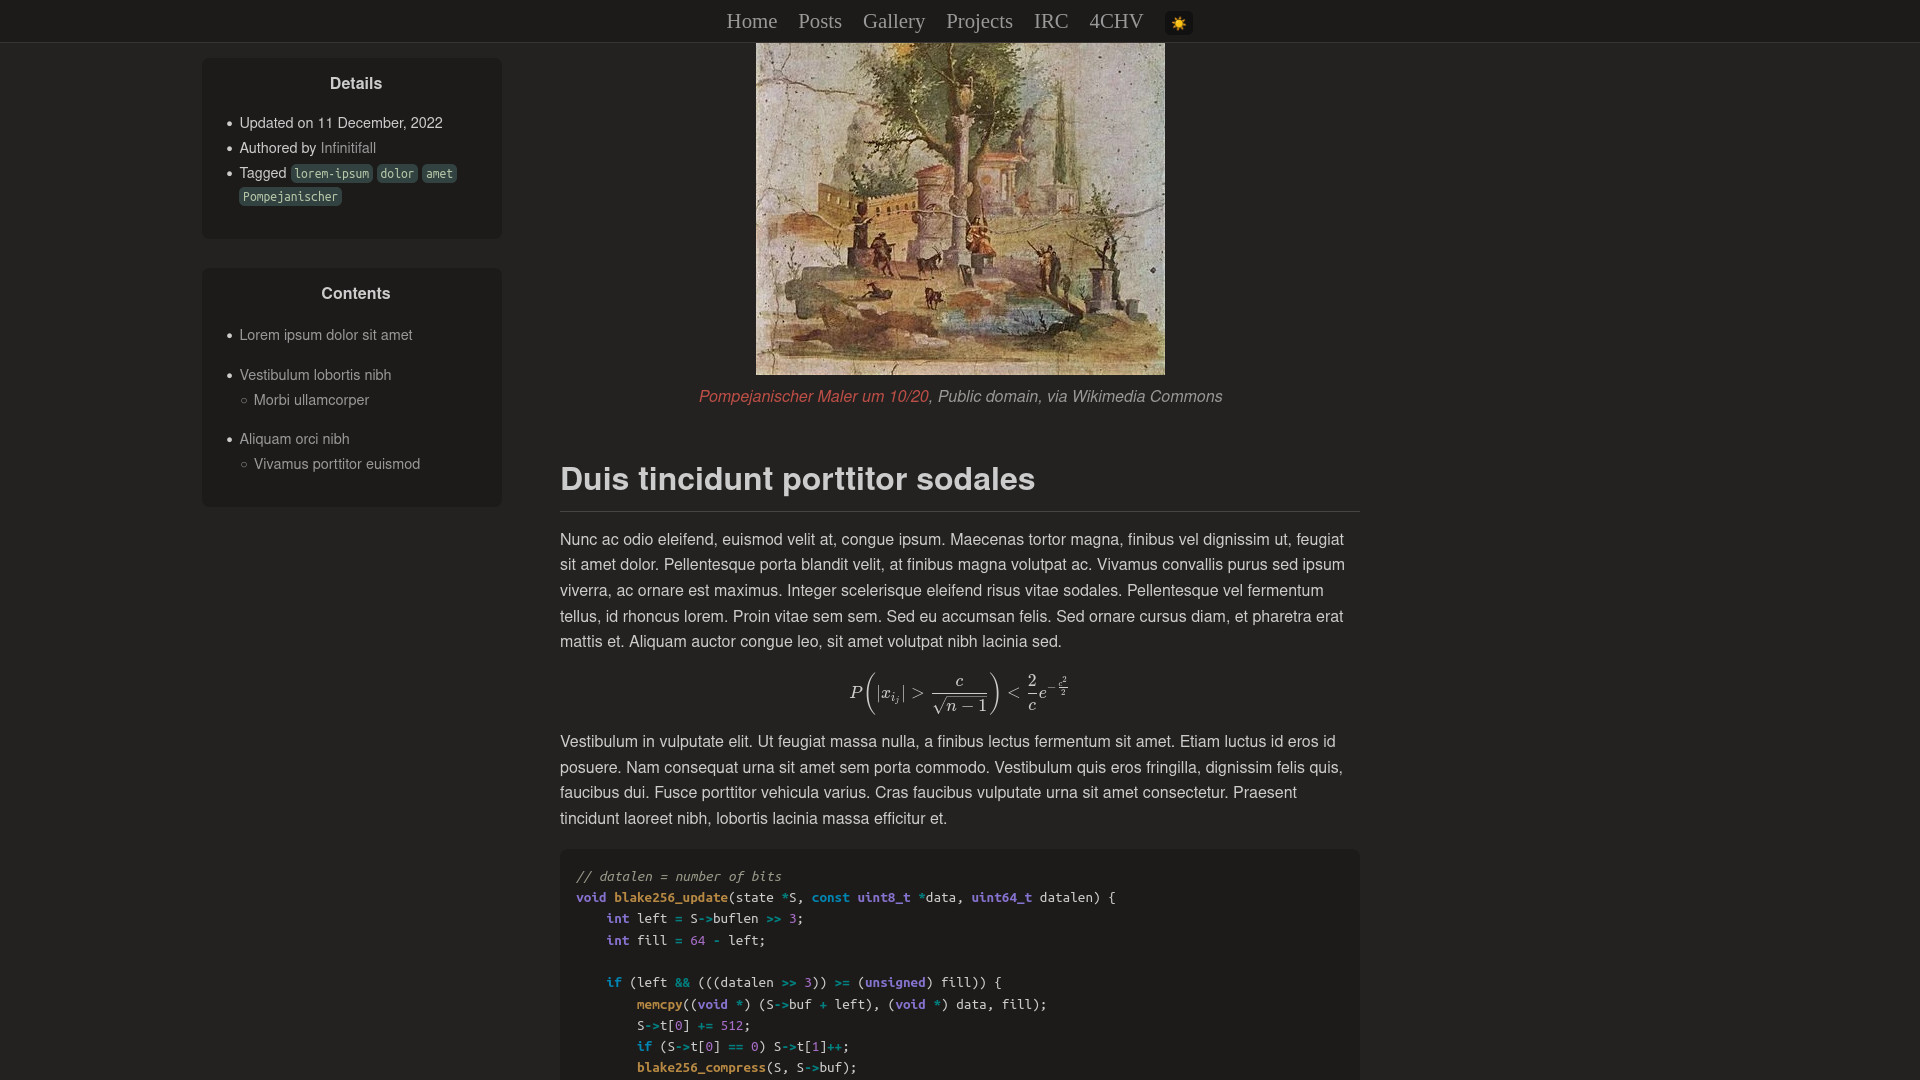
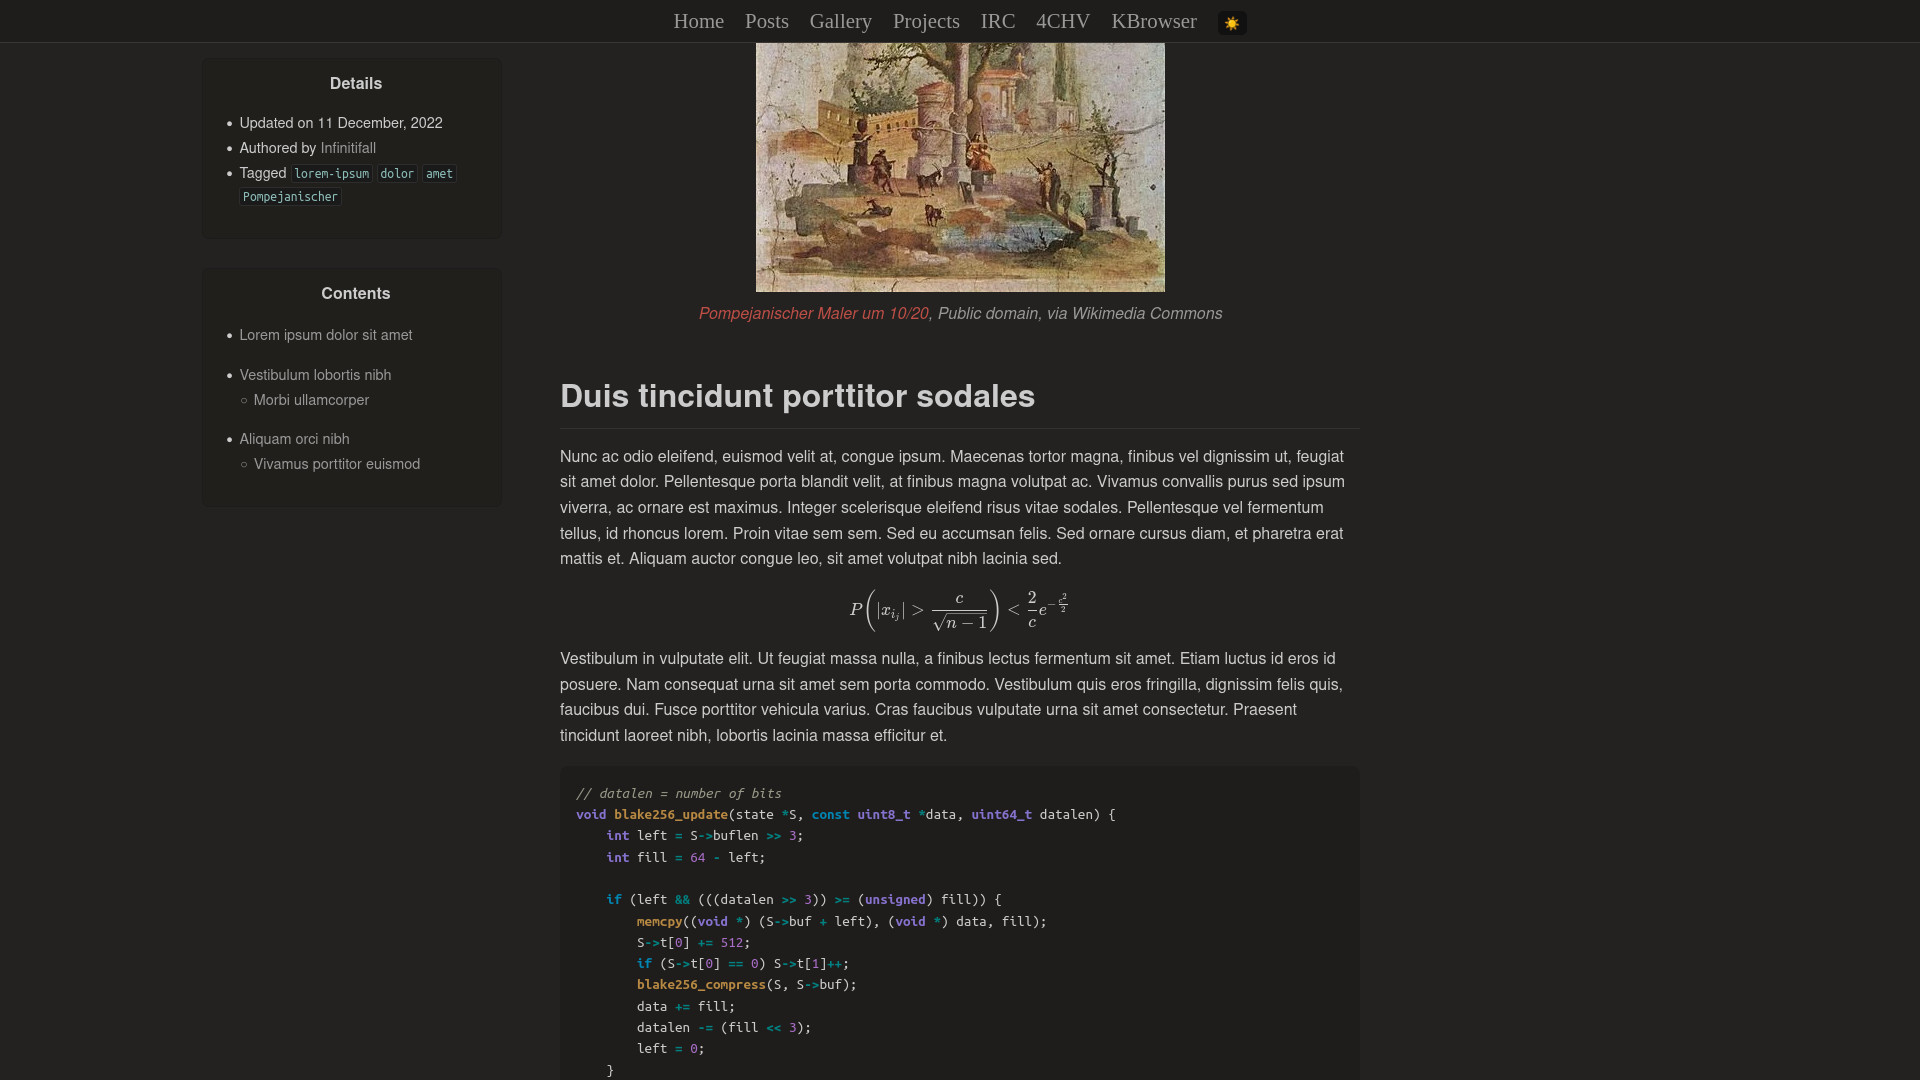
refined style

Changed region(s): [[0.2812, 0.0, 0.7188, 1.0], [0.125, 0.1528, 0.25, 0.2139]]

diff --git a/_sass/malis/_layout.scss b/_sass/malis/_layout.scss
@@ -91,7 +91,7 @@
     font-size: $tag-font-size;
     color: $code-tag;
     background-color: $bg-tag;
-    border: 1px darken($bg-tag, 10%) solid;
+    border: 1px $bg-pre-border solid;
   }
 
   .page-title {
@@ -153,7 +153,7 @@
       font-size: $tag-font-size;
       color: $code-tag;
       background-color: $bg-tag;
-      border: 1px darken($bg-tag, 10%) solid;
+      border: 1px $bg-pre-border solid;
     }
   }
 
@@ -260,6 +260,8 @@
       border: 1px solid $bg-1;
       border-radius: 0.5em;
       padding: 1em 1em 1em 1.5em;
+      background-color: $bg-sidebar;
+      border: 1px solid $bg-sidebar-border;
     }
 
     .post-toc {
@@ -267,6 +269,8 @@
       border: 1px solid $bg-1;
       border-radius: 0.5em;
       padding: 1em 1em 1em 1.5em;
+      background-color: $bg-sidebar;
+      border: 1px solid $bg-sidebar-border;
   
       max-height: calc(100vh - 3em - 2em - 4em - 4em - 7em);
       overflow-y: auto;
@@ -427,7 +431,7 @@
     font-size: $tag-font-size-dark;
     color: $code-tag-dark;
     background-color: $bg-tag-dark;
-    border: 1px transparent solid;
+    border: 1px $bg-pre-border-dark solid;
   }
 
   .page-title {
@@ -489,7 +493,7 @@
       font-size: $tag-font-size-dark;
       color: $code-tag-dark;
       background-color: $bg-tag-dark;
-      border: 1px transparent solid;
+      border: 1px $bg-pre-border-dark solid;
     }
 
     .post-tags-list {
@@ -596,7 +600,8 @@
       border: 1px transparent solid;
       border-radius: 0.5em;
       padding: 1em 1em 1em 1.5em;
-      background-color: $bg-highlight-dark;
+      background-color: $bg-sidebar-dark;
+      border: 1px solid $bg-sidebar-border-dark;
     }
 
     .post-toc {
@@ -604,7 +609,8 @@
       border: 1px transparent solid;
       border-radius: 0.5em;
       padding: 1em 1em 1em 1.5em;
-      background-color: $bg-highlight-dark;
+      background-color: $bg-sidebar-dark;
+      border: 1px solid $bg-sidebar-border-dark;
   
       max-height: calc(100vh - 3em - 2em - 4em - 4em - 7em);
       overflow-y: auto;

diff --git a/_sass/malis.scss b/_sass/malis.scss
@@ -100,7 +100,7 @@
 
 $base-font-family: Helvetica, Arial, sans-serif;
 $heading-font-family: Helvetica, Arial, sans-serif;
-$navbar-font-family: Helvetica, Arial, sans-serif;
+$navbar-font-family: 'Times New Roman', Times, serif;
 
 $base-font-size: 16px;
 $base-line-height: 1.6;
@@ -125,11 +125,11 @@ $grey-text: #888;
 $link-1: #4270ab;
 $link-2: #4270ab;
 
-$code-1: #612f70;
-$bg-code:#f0e1f3;
+$code-1: #d1224e;
+$bg-code:#f9f9f9;
 
-$code-tag: #2f6e70;
-$bg-tag:#e1f3f3;
+$code-tag: #1d8b7c;
+$bg-tag:#f9f9f9;
 
 $bg-0:   #fff;
 $bg-1:   #ddd;
@@ -138,6 +138,8 @@ $bg-highlight:   #fffdef;
 $bg-quote:   #f4f4f4;
 $bg-table: #fffdef;
 $bg-pre-border: #ddd;
+$bg-sidebar: #fff;
+$bg-sidebar-border: #ddd;
 
 $button-1: #8638b0;
 $button-1-bg: #eee;
@@ -157,7 +159,7 @@ $screen-width-tips: 1366px;
 
 $base-font-family-dark: Helvetica, Arial, sans-serif;
 $heading-font-family-dark: Helvetica, Arial, sans-serif;
-$navbar-font-family-dark: Helvetica, Arial, sans-serif;
+$navbar-font-family-dark: 'Times New Roman', Times, serif;
 
 $base-font-size-dark: 16px;
 $base-line-height-dark: 1.6;
@@ -178,23 +180,25 @@ $katex-font-size-dark:  $base-font-size * 1.1;
 
 $heading-text-dark: #ccc;
 $base-text-dark: #ccc;
-$grey-text-dark: #999;
+$grey-text-dark: #777;
 $link-1-dark: #be4f47;
-$link-2-dark: #abd8e3;
+$link-2-dark: #be4f47;
 
-$code-1-dark: #c5adcc;
-$bg-code-dark:#383045;
+$code-1-dark: #c483b6;
+$bg-code-dark:#1a1a1a;
 
-$code-tag-dark: #b6c6a7;
-$bg-tag-dark:#314241;
+$code-tag-dark: #8dbeba;
+$bg-tag-dark:#1a1a1a;
 
-$bg-0-dark:   #242220;
-$bg-1-dark:   #444;
-$bg-highlight-dark:   #1d1b1a;
+$bg-0-dark:   #232220;
+$bg-1-dark:   #333;
+$bg-highlight-dark:   #1f1d1b;
 
-$bg-quote-dark:   #1c1b1a;
-$bg-table-dark: #181818;
+$bg-quote-dark:   #1f1d1b;
+$bg-table-dark: #1f1d1b;
 $bg-pre-border-dark: #2d2d2d;
+$bg-sidebar-dark: #201f1c;
+$bg-sidebar-border-dark: #1c1c1c;
 
 $button-1-dark: #9371b8;
 $button-1-bg-dark: #111;

diff --git a/_sass/malis/_base.scss b/_sass/malis/_base.scss
@@ -83,8 +83,8 @@
     font-weight: $code-font-weight;
     background-color: $bg-code;
     padding: 0.05em 0.2em;
-    border-radius: 0.4em;
-    border: 1px darken($bg-code, 10%) solid;
+    border-radius: 0.2em;
+    border: 1px $bg-pre-border solid;
   }
 
   figure {
@@ -287,8 +287,8 @@
     font-weight: $code-font-weight-dark;
     background-color: $bg-code-dark;
     padding: 0.05em 0.2em;
-    border-radius: 0.4em;
-    border: 1px transparent solid;
+    border-radius: 0.2em;
+    border: 1px $bg-pre-border-dark solid;
   }
 
   figure {
